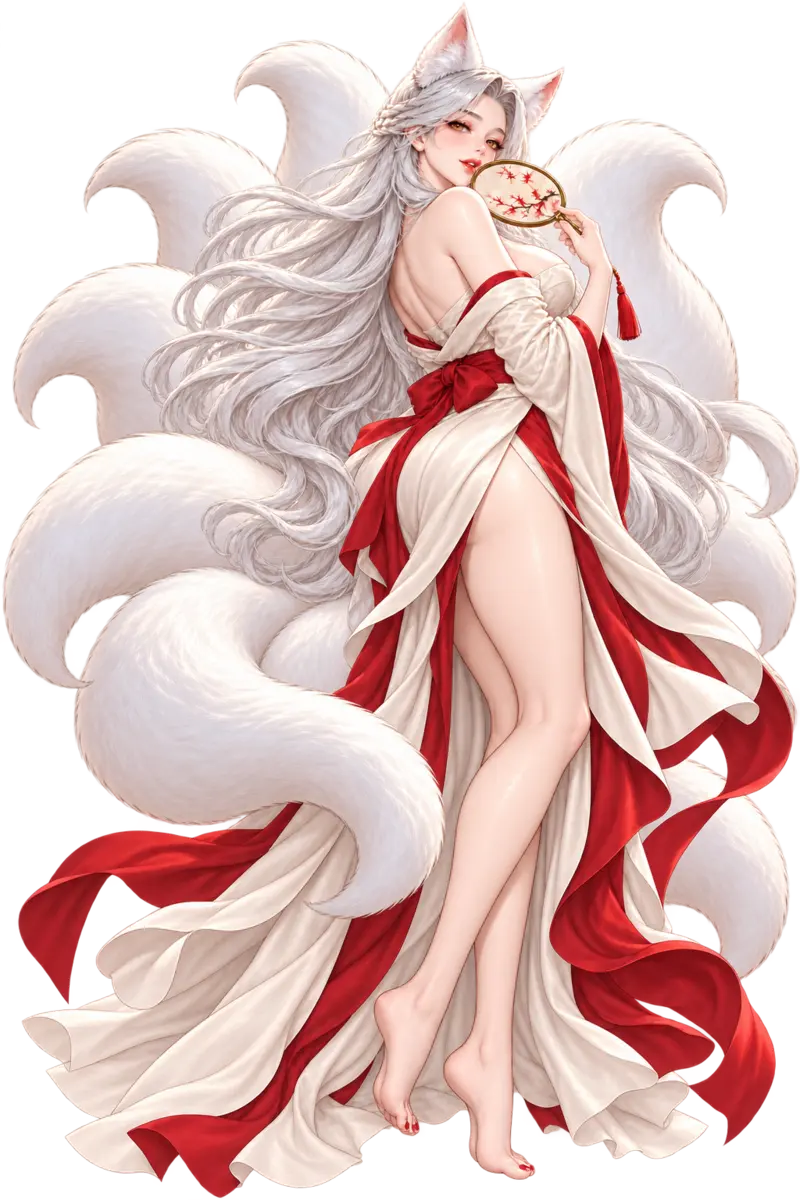
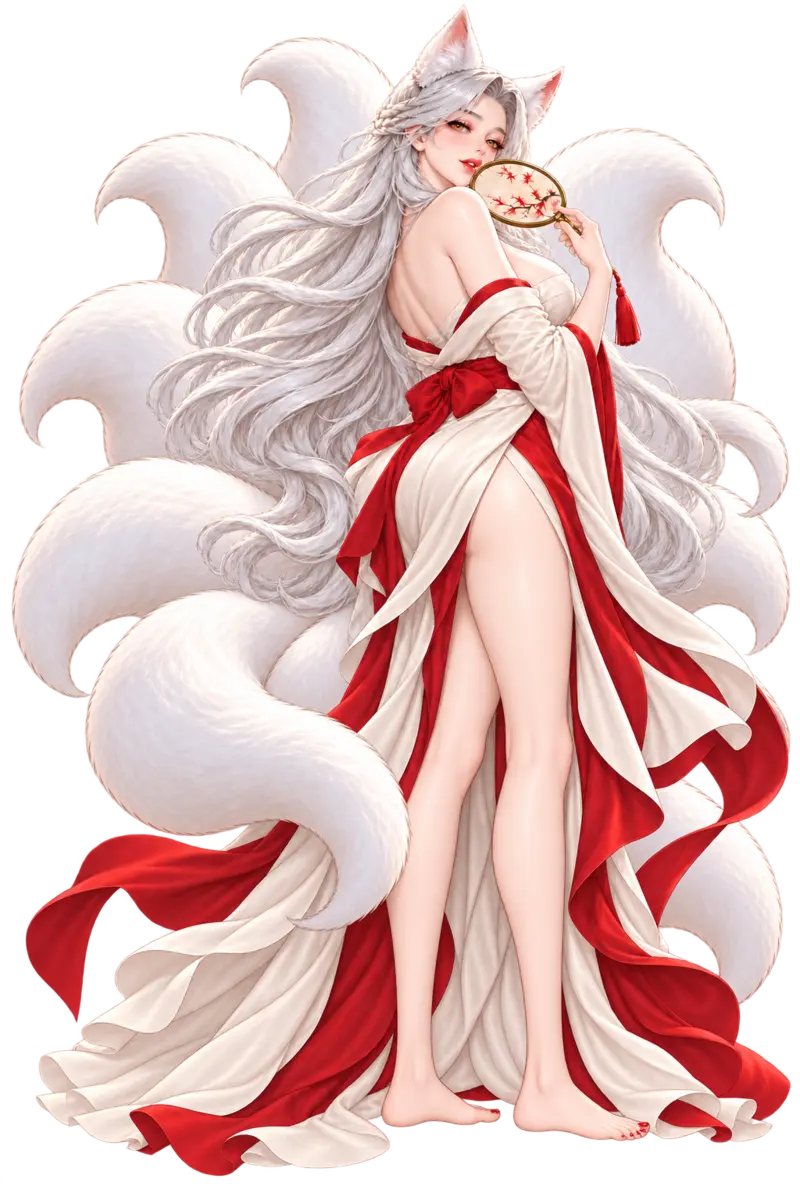
sample: 대표 식객이 떠 보이지 않게
- 숨 쉬는 움직임을 발을 고정한 채 몸만 살짝 늘었다 줄게 바꿈(위아래로 뜨지 않음)
- 누를 때도 튀어 오르지 않고 제자리에서 움찔
- 그림자를 발·치맛자락 모양을 따라 바닥에 깔리게 함
- 백설을 두 발을 바닥에 붙이고 선 그림으로 다시 그림

Claude-Session: https://claude.ai/code/session_01AG3ixGBdGKPAAzXvjh6L4F

diff --git a/src/styles.css b/src/styles.css
@@ -594,19 +594,21 @@ body:has(.guide) .sheet { max-height: calc(100dvh - 150px); }
 .menu-icon .badge { font-style: normal; }
 .menu-icon .badge.dot { min-width: 10px; width: 10px; height: 10px; padding: 0; right: 6px; top: 6px; }
 .heroine { flex: 1; min-height: 0; display: flex; justify-content: center; align-items: flex-end; padding: 6px 0 0; }
-.heroine img { height: 100%; width: 100%; object-fit: contain; object-position: center bottom; filter: drop-shadow(0 8px 18px rgba(80,40,30,.18)); }
+.heroine img { height: 100%; width: 100%; object-fit: contain; object-position: center bottom; }
 .home .quest { position: static; flex: none; margin: 6px 12px 10px; width: auto; }
 .app.guiding .home { padding-bottom: 132px; }
 .nav .badge:empty { min-width: 9px; width: 9px; height: 9px; padding: 0; top: 8px; right: calc(50% - 20px); }
 
-/* 대표 식객: 숨 쉬듯 움직이고, 누르면 살짝 튀며 한마디 한다 */
+/* 대표 식객: 발은 바닥에 붙인 채 숨 쉬듯 움직이고, 누르면 살짝 움찔하며 한마디 한다 */
 .heroine { position: relative; }
 .heroine-art { position: relative; height: 100%; width: 100%; display: flex; justify-content: center; align-items: flex-end; }
-.heroine-art::before { content: ''; position: absolute; left: 22%; right: 22%; bottom: 0; height: 26px; border-radius: 50%; background: radial-gradient(ellipse at center, rgba(70,40,30,.28), rgba(70,40,30,0) 70%); }
-.heroine-art img { position: relative; transform-origin: 50% 100%; animation: breathe 4.2s ease-in-out infinite; }
-.heroine-art.poked img { animation: poke .45s ease-out, breathe 4.2s ease-in-out .45s infinite; }
-@keyframes breathe { 0%, 100% { transform: translateY(0) scale(1); } 50% { transform: translateY(-4px) scale(1.012, 1.006); } }
-@keyframes poke { 0% { transform: scale(1); } 35% { transform: translateY(-10px) scale(1.02); } 100% { transform: translateY(0) scale(1); } }
+.heroine-art img { position: absolute; inset: 0; height: 100%; width: 100%; object-fit: contain; object-position: center bottom; }
+.heroine .heroine-img { transform-origin: 50% 100%; animation: breathe 4.2s ease-in-out infinite; filter: none; }
+.heroine-art.poked .heroine-img { animation: poke .5s ease-out, breathe 4.2s ease-in-out .5s infinite; }
+/* 그림자: 그림의 맨 아래(발·치맛자락)만 잘라 납작하게 눕힌 실루엣 */
+.heroine .heroine-shadow { clip-path: inset(90% 0 0 0); transform-origin: 50% 100%; transform: translateY(2px) scaleY(.35); filter: brightness(0) blur(5px); opacity: .28; pointer-events: none; }
+@keyframes breathe { 0%, 100% { transform: scale(1, 1); } 50% { transform: scale(1.004, 1.012); } }
+@keyframes poke { 0% { transform: scale(1, 1); } 30% { transform: scale(1.025, .975); } 65% { transform: scale(.99, 1.018); } 100% { transform: scale(1, 1); } }
 .say { position: absolute; left: 14px; right: 14px; top: 8px; padding: 10px 12px; border-radius: 14px; background: rgba(255,252,248,.96); border: 1px solid var(--line); box-shadow: 0 6px 18px rgba(80,40,30,.16); display: grid; grid-template-columns: 1fr auto; gap: 2px 8px; align-items: end; animation: rise .25s ease; font-size: 15px; line-height: 1.5; }
 .say b { grid-column: 1 / -1; color: var(--seal); font: 700 14px var(--title); }
 .say button { color: var(--seal); font-weight: 700; font-size: 14px; white-space: nowrap; }

diff --git a/src/ui/HomeView.tsx b/src/ui/HomeView.tsx
@@ -56,7 +56,8 @@ export function HomeView({ view, now, open, go, onHeroine }: Props) {
   </div>
   <div className="heroine">
    <button key={taps} className={`heroine-art ${taps ? 'poked' : ''}`} aria-label={`${def.name}에게 말 걸기`} onClick={poke}>
-    <Art src={ART.full(def.id)} alt={def.name} fallback={<div className="portrait-fallback">{def.name}</div>}/>
+    <img className="heroine-shadow" src={ART.full(def.id)} alt="" aria-hidden="true"/>
+    <Art className="heroine-img" src={ART.full(def.id)} alt={def.name} fallback={<div className="portrait-fallback">{def.name}</div>}/>
    </button>
   </div>
   {line ? <div className="say" role="status"><b>{def.name}</b><span>{line}</span><button onClick={() => onHeroine(def.id)}>대화하기 ›</button></div> : !step && <button className="quest" onClick={() => go(hint.target)}><b>할 일</b><span>{hint.text}</span><em>가기 ›</em></button>}
